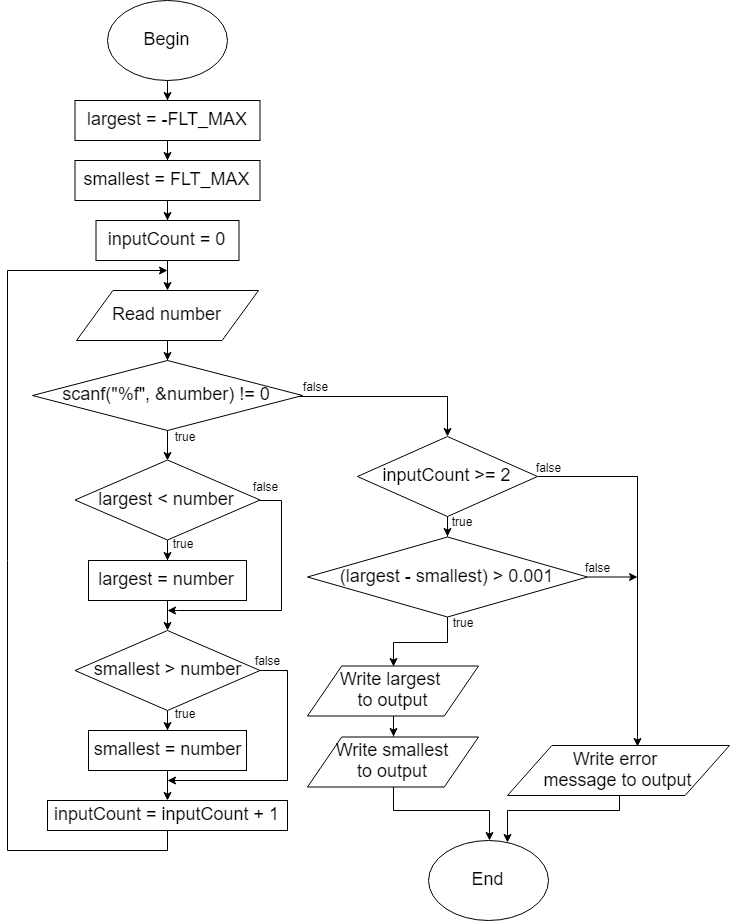
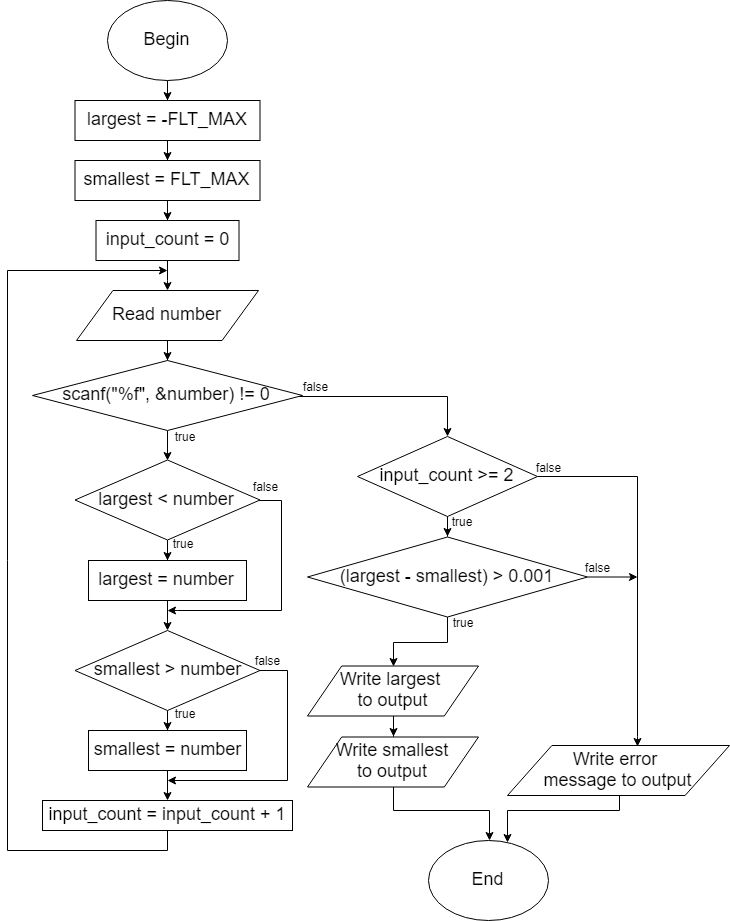
Changed inputCount to input_count to be consistent with using snake_case instead of camelCase.

diff --git a/assignment_02/04_few_numbers_largest_smallest/main.c b/assignment_02/04_few_numbers_largest_smallest/main.c
@@ -6,7 +6,7 @@
 // 1. Begin.
 // 2. Assign the smallest possible float to variable largest.
 // 3. Assign the largest possible float to variable smallest.
-// 4. Assign 0 to inputCount.
+// 4. Assign 0 to input_count.
 // 5. Read in the value of a number, store it in number.
 // 6. If scanf("%f", &number) does not equal 0, number is not invalid,
 //    go to the next step, otherwise go to step 13.
@@ -14,9 +14,9 @@
 // 8. Assign number to largest.
 // 9. If smallest is greater than number, go to the next step, otherwise go to step 11.
 // 10. Assign number to smallest.
-// 11. Assign inputCount + 1 back to inputCount itself.
+// 11. Assign input_count + 1 back to input_count itself.
 // 12. Go back to step 5.
-// 13. If inputCount is greater than or equal to 2 and largest subtracted by smallest 
+// 13. If input_count is greater than or equal to 2 and largest subtracted by smallest 
 //     is greater than 0.001, go to the next step, otherwise go to step 17.
 // 14. Write largest to output.
 // 15. Write smallest to output.
@@ -79,8 +79,8 @@ int main (void)
        
     printf("Enter at least 2 real numbers, separated by the ENTER key, enter anything else to stop:\n");    
     
-    int inputCount;
-    for (inputCount = 0; scanf("%f", &number) != 0; ++inputCount)
+    int input_count;
+    for (input_count = 0; scanf("%f", &number) != 0; ++input_count)
     {     
         if (largest < number) 
         {
@@ -93,7 +93,7 @@ int main (void)
         }
     }    
     
-    if (inputCount >= 2 && (largest - smallest) > 0.001)
+    if (input_count >= 2 && (largest - smallest) > 0.001)
     {
         printf("\n%.2f is the largest number.\n", largest);
         printf("%.2f is the smallest number.", smallest);     

diff --git a/assignment_02/README.md b/assignment_02/README.md
@@ -425,7 +425,7 @@ int main (void)
 // 1. Begin.
 // 2. Assign the smallest possible float to variable largest.
 // 3. Assign the largest possible float to variable smallest.
-// 4. Assign 0 to inputCount.
+// 4. Assign 0 to input_count.
 // 5. Read in the value of a number, store it in number.
 // 6. If scanf("%f", &number) does not equal 0, number is not invalid,
 //    go to the next step, otherwise go to step 13.
@@ -433,9 +433,9 @@ int main (void)
 // 8. Assign number to largest.
 // 9. If smallest is greater than number, go to the next step, otherwise go to step 11.
 // 10. Assign number to smallest.
-// 11. Assign inputCount + 1 back to inputCount itself.
+// 11. Assign input_count + 1 back to input_count itself.
 // 12. Go back to step 5.
-// 13. If inputCount is greater than or equal to 2 and largest subtracted by smallest 
+// 13. If input_count is greater than or equal to 2 and largest subtracted by smallest 
 //     is greater than 0.001, go to the next step, otherwise go to step 17.
 // 14. Write largest to output.
 // 15. Write smallest to output.
@@ -453,8 +453,8 @@ int main (void)
        
     printf("Enter at least 2 real numbers, separated by the ENTER key, enter anything else to stop:\n");    
     
-    int inputCount;
-    for (inputCount = 0; scanf("%f", &number) != 0; ++inputCount)
+    int input_count;
+    for (input_count = 0; scanf("%f", &number) != 0; ++input_count)
     {     
         if (largest < number) 
         {
@@ -467,7 +467,7 @@ int main (void)
         }
     }    
     
-    if (inputCount >= 2 && (largest - smallest) > 0.001)
+    if (input_count >= 2 && (largest - smallest) > 0.001)
     {
         printf("\n%.2f is the largest number.\n", largest);
         printf("%.2f is the smallest number.", smallest);     
